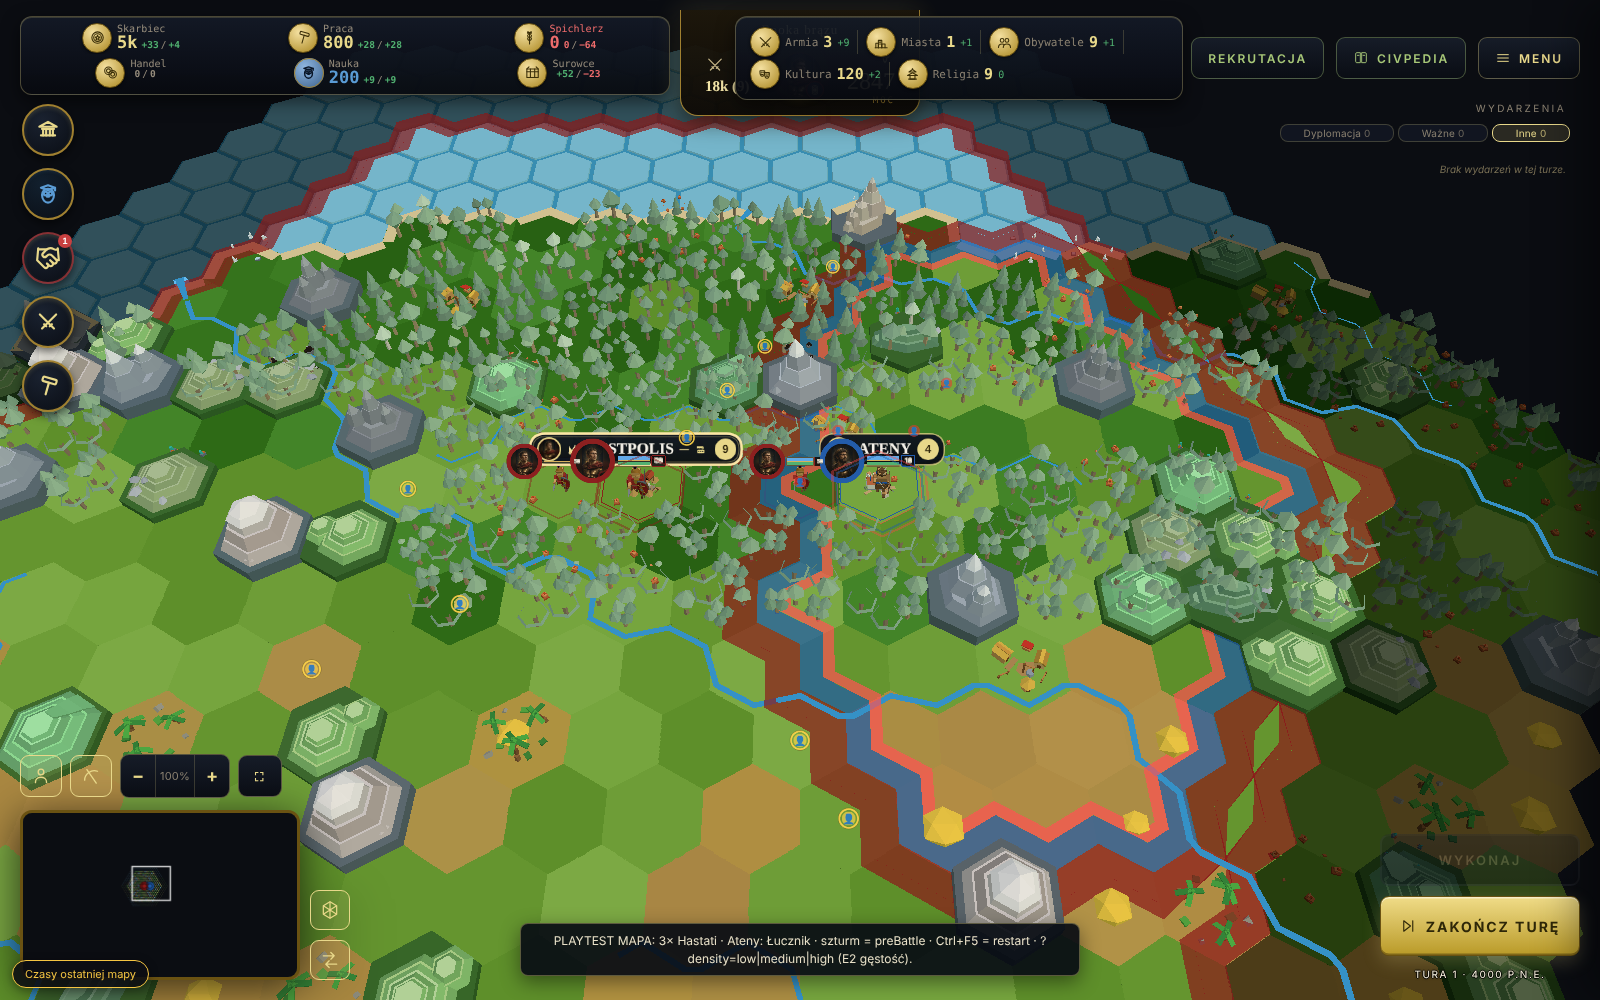
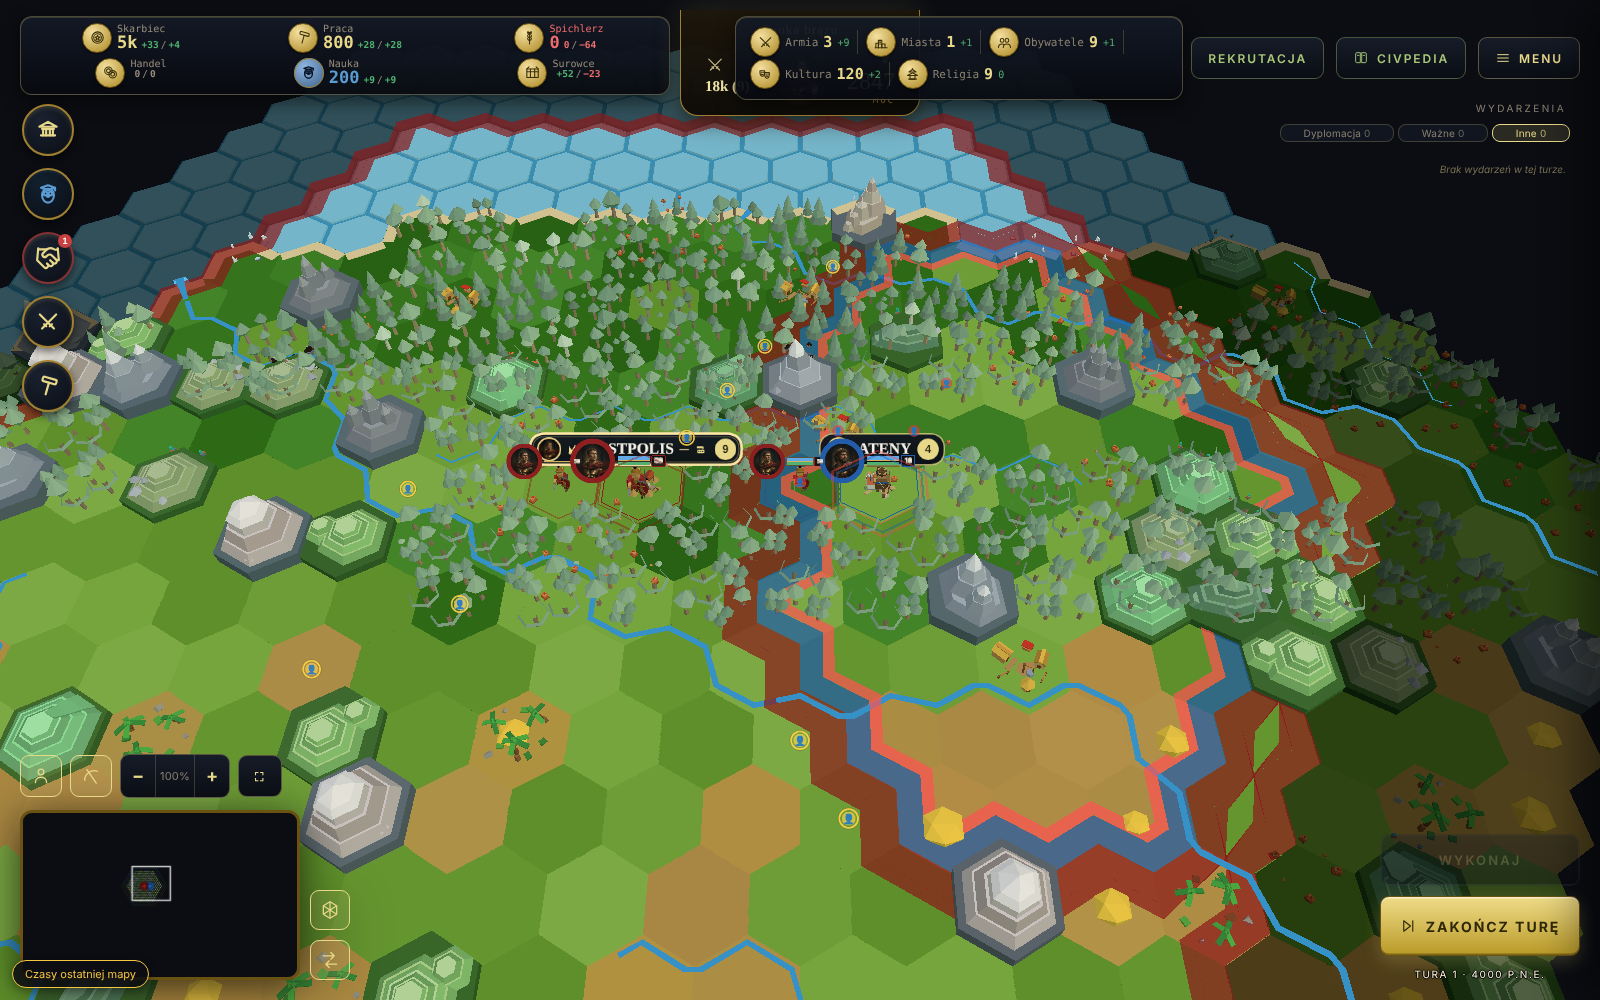
R-WEB-MEMORY-UNIT-STATIC-MERGE-Q1: Obrona r1 — game-frame bez progu 8/255 (szum A vs A, marsz, wiele zetonow, mutacja), wlasna baza render-all, zrzuty A/B, heap
Claude-Session: https://claude.ai/code/session_01Fs7eokPtaxbQL7KGTXXeWS

Changed region(s): [[0.3125, 0.899, 0.6875, 0.992]]

diff --git a/dyspozycje/autobot/runs/R-WEB-MEMORY-UNIT-STATIC-MERGE-Q1/02-obrona-r1.md b/dyspozycje/autobot/runs/R-WEB-MEMORY-UNIT-STATIC-MERGE-Q1/02-obrona-r1.md
@@ -1,0 +1,67 @@
+STATUS: PASS
+DOMAIN: GAME (WEB) — pamięć i wydajność renderu jednostek
+TEMAT: R-WEB-MEMORY-UNIT-STATIC-MERGE-Q1
+GOAL: statyczne części żetonu scalone w jeden mesh na materiał; zachowane picking, zaznaczenie, animacje, deferred dim, mgła, kolory właściciela, SmallPartLod, pule; różnica obrazu ≤ ~120 px z 1,6 mln.
+
+ZMIANY-COMMIT:
+- stan odtworzony z commita Operatora `e866e18899c60c8ccce7eb25472fa5dceae71b7b` (baza `6a673c838b306dbad47dd33d58f5f5a72882a71c`), gałąź `autobot/R-WEB-MEMORY-UNIT-STATIC-MERGE-Q1-obrona`;
+- kod gry (`gra/src/**`) BEZ ZMIAN w obronie;
+- zmieniony tylko test z allowlisty: `gra/tools/memory-unit-static-merge-game-frame.cjs`;
+- doszły: ten raport, `gate-obrona-r1-*.txt` (4 pliki), `zrzuty/gra-K1..K5-{A-przed,B-po,roznica}.png` (15 plików; 3 starsze nadpisane);
+- SHA commitu obrony: w odpowiedzi do orkiestratora (`git log -1` gałęzi).
+
+## Odpowiedzi na zarzuty
+
+**Z1 (miara pełnej klatki) — PRZYJMUJĘ.**
+Poprawka: test pełnej klatki liczy teraz piksele różne w DOWOLNYM kanale, bez progu 8/255 (tak jak S3 i GOAL). Każdy build uruchamia się dwa razy (A1, A2, B1, B2), więc mierzy też szum A vs A i B vs B.
+Dowód (`gate-obrona-r1-game-frame.txt`, EXIT=0):
+- szum we wszystkich kadrach K1–K5: 0 px;
+- A vs B: K1 0, K2 0, K3 1, K4 1, K5 1 px z 1,6 mln, maks. różnica kanału 1/255.
+
+Skąd 313 px u Operatora: we wcześniejszych przebiegach tej obrony K1 **A1 vs A2** (ten sam build) dał dokładnie 313 px (maks. 2/255, kwadrat 20×20 px). To był szum klatki, a nie skutek scalenia.
+Drugie źródło szumu: podpowiedź DOM `#civ-hint-toast` (55 414 px). Znika po 18 s czasu strony, więc jej stan zależy od długości ładowania. Test chowa ją stylem, bo to element UI bez związku z żetonami.
+Czułość testu: mutacja (scalony mesh niewidoczny, build poza repo, zmiana cofnięta) daje FAIL w 5/5 kadrach: 1 141 / 10 213 / 34 183 / 33 930 / 34 183 px (`gate-obrona-r1-game-frame-mutacja.txt`). Test na pewno widzi scalone meshe w klatce gry.
+
+**Z2 (zakres pełnej klatki) — PRZYJMUJĘ marsz i wiele żetonów; ODRZUCAM porównanie pikseli w t.50 (dowód niżej).**
+Poprawka: doszły 3 kadry w prawdziwej grze, z prawdziwą pętlą renderu z `main.ts`. Od K3 zegar strony jest zatrzymany (`page.clock`), a render idzie stałymi krokami:
+- K3: 60 dodatkowych żetonów dwóch właścicieli, kamera na żetonie, który potem rusza;
+- K4: prawdziwy ruch o 1 heks (`moveStep` → `startAnimatedMove` → `setTokenWorldPosition`), klatka w trakcie odcinka (48 z 140 ms; sprawdzone: animacja trwa, heks startowy i docelowy w kadrze);
+- K5: po zakończeniu ruchu.
+Wynik: 1 / 1 / 1 px A vs B.
+Atak na mapie idzie tą samą ścieżką co marsz: `main.ts` 41959–41972 przesuwa wyłącznie korzeń żetonu. „Wypad” ataku jest dodatkowo pokryty przez S3 (2 px).
+t.50 — ODRZUCAM: świat w t.50 nie jest deterministyczny. Ten sam build przy tym samym seedzie daje 424 / 385 / 412 jednostek (pre1–3, `pomiar-gra/raw-pre.jsonl`). A i B pokazywałyby więc różne światy, a porównanie pikseli nic by nie mierzyło. Gęstą scenę zastępuje deterministyczny K3. Obraz w t.50 pozostaje NIE_ZMIERZONY.
+
+**Z3 (komplet zrzutów) — PRZYJMUJĘ.**
+W `zrzuty/` jest 15 plików `gra-K1..K5-A-przed.png`, `-B-po.png` i `-roznica.png` (magenta = dowolna różnica). Przejrzałem K2, K3 i K4: gęsta scena, żeton w ruchu między heksami, bez artefaktów. Mapy różnic są praktycznie czarne (1 px).
+
+**Z4 (baza render-all) — PRZYJMUJĘ.**
+Poprawka: własny przebieg bazowy 79 narzędzi `*render*` na `origin/main 6a673c838` w osobnym worktree poza repo. Runner i timeouty takie same jak u Operatora (`gate-obrona-r1-render-all-baza.txt`).
+Wynik: 54 przechodzą w obu, 22 nie przechodzą tak samo jak na bazie, 3 rozbieżności:
+- `sidepanel-diplo-dismiss`: teraz 1, baza 0. Powtórzony na kodzie tematu: 35/0, EXIT=0, więc niestabilny;
+- `garrison-panel-pinning`: teraz 1, baza 0. Na kodzie tematu 3× 16/0;
+- `tartak-wzgorze-las`: teraz 0, baza 1, czyli lepiej niż baza.
+Regresji: 0. `render-unit-sharpness-measure` daje 0 na bazie i 0 teraz.
+
+**Z5 (koszt budowy) — PRZYJMUJĘ jako uwagę; kod bez zmian.**
+Trzeci pomiar (`gate-obrona-r1-heap.txt`): sync 475 żetonów od zera 572 → 836 ms (+46%), H3 ≤ 2,5× spełnione; sterta 67,0 → 29,3 MB.
+Razem z pomiarami Operatora (675 → 858) i Evaluatora (605 → 832) koszt budowy żetonów od zera rośnie o +27–46%, czyli około +0,4–0,6 ms na żeton. Przy wczytaniu gry z około 400 jednostkami to jednorazowo około +0,2 s.
+Przejście tury jest szybsze: syncUnitsRender w t.50 186,6 → 108,0 ms. Uwaga zostaje w BLOKADY dla Final Control.
+
+TESTY (obrona, wszystkie w pierwszym planie, każde wywołanie < 10 min):
+- game-frame (nowa wersja): 7/0, EXIT=0;
+- mutacja game-frame: wykryta 5/5;
+- render-all, baza obrony: 79 narzędzi, 0 regresji;
+- powtórki rozbieżnych narzędzi: sidepanel-diplo-dismiss 35/0, garrison-panel-pinning 3× 16/0;
+- heap: 3/0, EXIT=0;
+- `node --check` narzędzia: OK; `git diff --check`: czysto.
+Pozostałe bramki Operatora (tsc, logic, S-testy, pomiar w grze) nie wymagały powtórki, bo kod gry się nie zmienił. Evaluator odtworzył je na e866e18.
+
+BLOKADY: brak. Uwagi dla Final Control:
+- (a) Z5: jednorazowy koszt budowy żetonów +27–46%;
+- (b) obraz w t.50: NIE_ZMIERZONO (świat niedeterministyczny);
+- (c) możliwy konflikt w `units.ts` z R-WEB-PERF-ENDTURN-RENDER-HUD-Q1 przy integracji;
+- (d) buildy, cache i worktree bazy obrony usunięte po pracy.
+
+RUNDY: 1/5 (obrona rundy 1)
+NASTĘPNY KROK: Final Control → integracja orkiestratora.
+DEPLOY-PUSH: NIE WYKONANO
